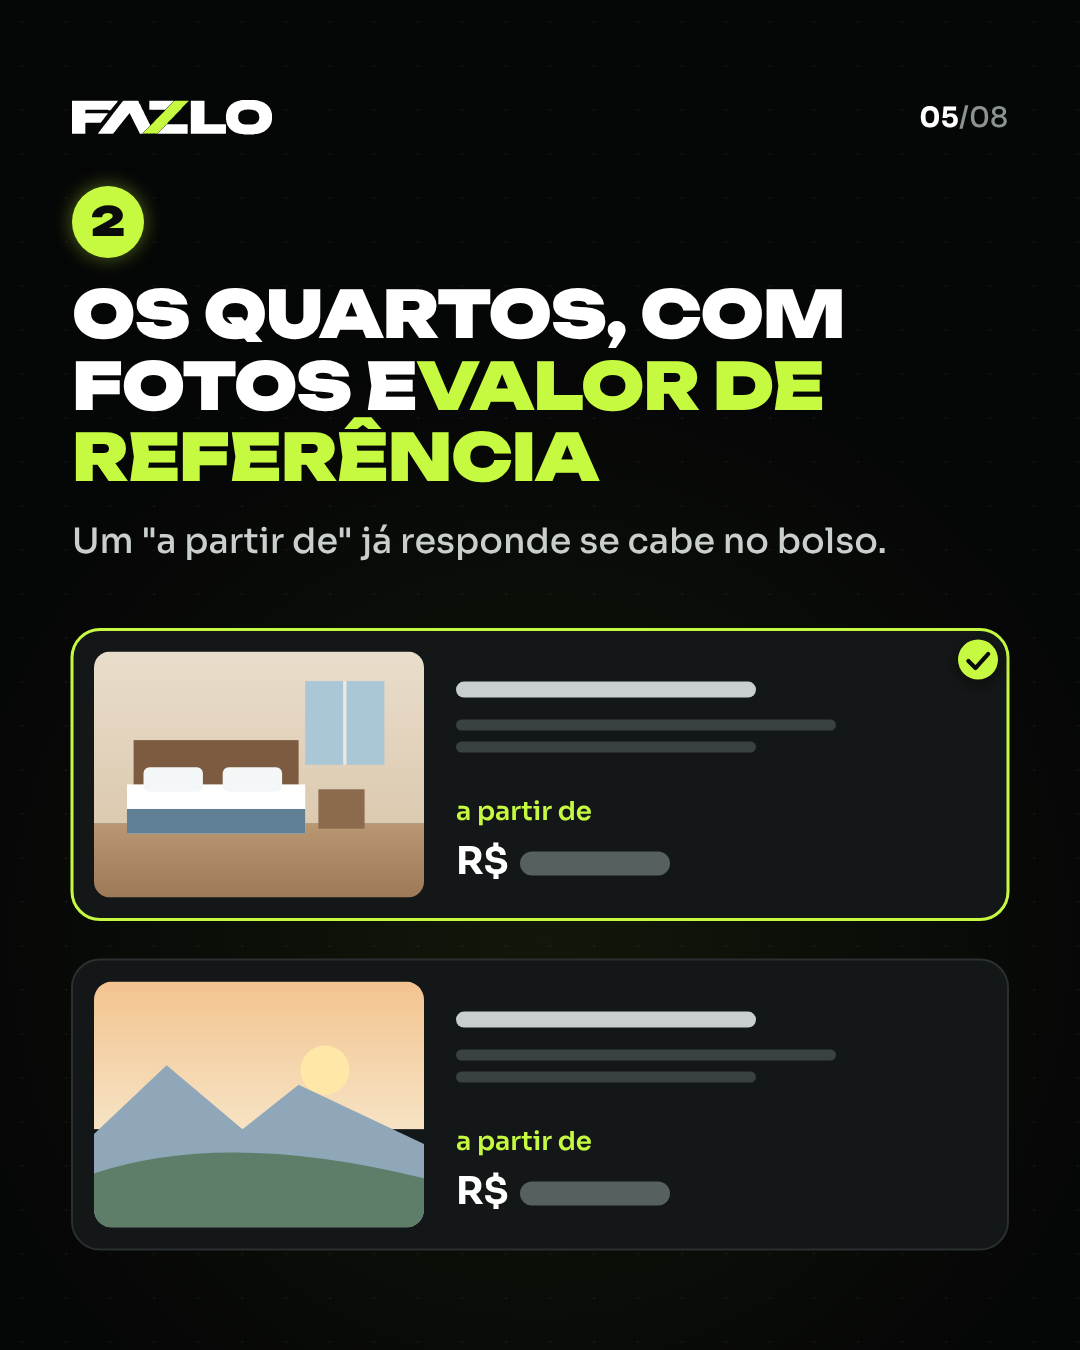
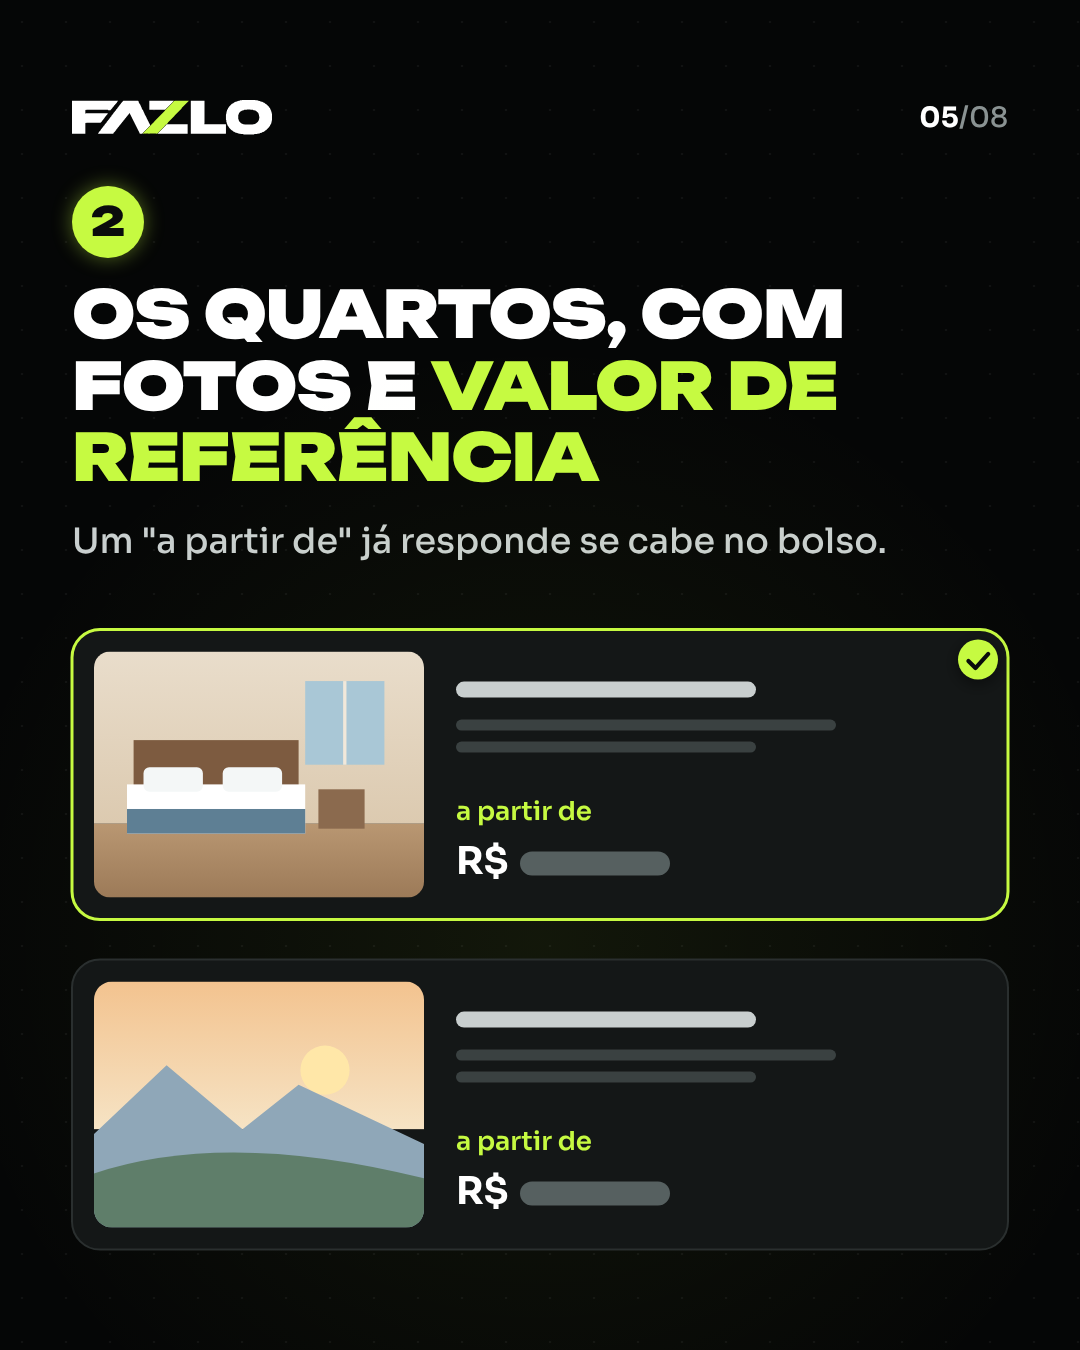
Carrossel link-da-bio: espaço entre palavras volta antes de trecho lima (slide 05)
- titleRich: o espaço só é removido antes de pontuação (, . : ; ! ?);
  o título do slide 05 volta a "FOTOS E VALOR DE". "COMO CHEGAR, SEM"
  (06) e "UM LINK SÓ: O SITE" (08) seguem sem espaço antes da pontuação.
- 8 slides re-renderizados; QA do carrossel aprovado.

Claude-Session: https://claude.ai/code/session_0166SwWybyXQNx2uznYVUJ6n

Changed region(s): [[0.3667, 0.2489, 0.7944, 0.3111]]

diff --git a/carrosseis/link-da-bio/src/slides.js b/carrosseis/link-da-bio/src/slides.js
@@ -395,12 +395,13 @@
   function panel(c, x, y, w, h) { fillR(c, x, y, w, h, 28, C.card); strokeR(c, x, y, w, h, 28, C.line, 2); }
 
   // ---------------------------------------------------------------- título com *trechos em lima* (o estado do * passa de uma linha à outra)
+  // glue: a pontuação logo depois de um trecho lima cola na palavra anterior (sem espaço); entre palavras o espaço fica
   function titleRich(c, lines, x, y, size, o = {}) {
     const lh = size * (o.lh || 1.1), ls = -size * 0.02, wt = 900, sp = measure(' ', size, wt, DISPLAY, ls);
     let lime = false;
     lines.forEach((line, i) => {
       const words = [];
-      line.split('*').forEach((part, k) => { if (k > 0) lime = !lime; part.split(' ').filter(Boolean).forEach((w, q) => words.push({ w, lime, glue: q === 0 && k > 0 && part[0] !== ' ' })); });
+      line.split('*').forEach((part, k) => { if (k > 0) lime = !lime; part.split(' ').filter(Boolean).forEach((w, q) => words.push({ w, lime, glue: q === 0 && k > 0 && /^[,.:;!?]/.test(part) })); });
       let xx = x;
       words.forEach((wd) => { if (wd.glue && xx > x) xx -= sp; text(c, wd.w, xx, y + i * lh, { fam: DISPLAY, size, weight: wt, color: wd.lime ? C.lime : C.white, ls }); xx += measure(wd.w, size, wt, DISPLAY, ls) + sp; });
     });
